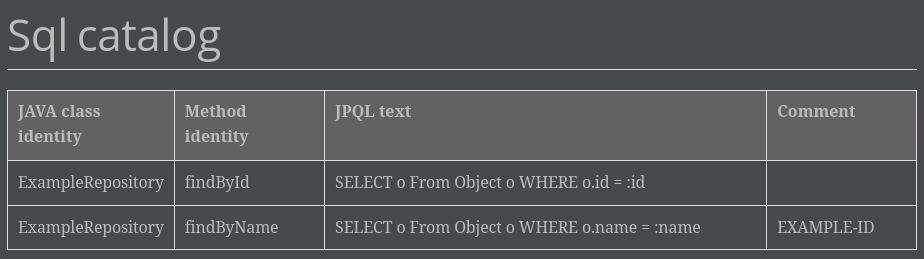
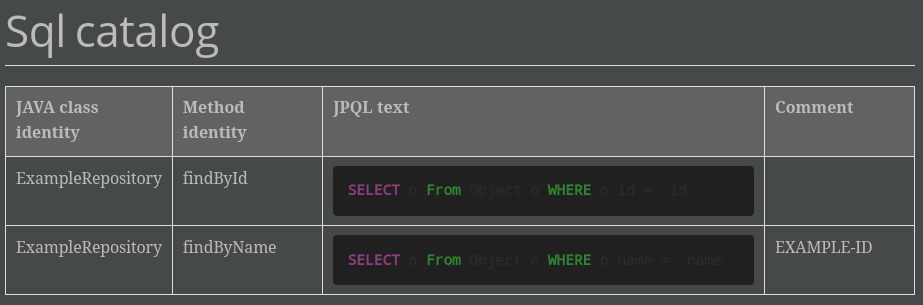
#775 jpql format in generated sql catalog

diff --git a/coffee-module/coffee-module-docgen/coffee-module-docgen-sqlcatalog/src/main/java/hu/icellmobilsoft/coffee/module/docgen/sqlcatalog/SqlCatalogAsciiDocWriter.java b/coffee-module/coffee-module-docgen/coffee-module-docgen-sqlcatalog/src/main/java/hu/icellmobilsoft/coffee/module/docgen/sqlcatalog/SqlCatalogAsciiDocWriter.java
@@ -59,7 +59,7 @@ public class SqlCatalogAsciiDocWriter implements IDocWriter<SqlCatalogData> {
     }
 
     private List<Column> getColumns() {
-        return Arrays.stream(SqlCatalogColumn.values()).map(col -> new Column(this.getHeaderName(col), this.getColumnWidth(col))).toList();
+        return Arrays.stream(SqlCatalogColumn.values()).map(col -> new Column(this.getHeaderName(col), this.getColumnStyle(col))).toList();
     }
 
     private String getHeaderName(SqlCatalogColumn sqlCatalogColumn) {
@@ -71,12 +71,12 @@ public class SqlCatalogAsciiDocWriter implements IDocWriter<SqlCatalogData> {
         };
     }
 
-    private int getColumnWidth(SqlCatalogColumn column) {
+    private String getColumnStyle(SqlCatalogColumn column) {
         return switch (column) {
-            case CLASS_NAME -> 1;
-            case METHOD_NAME -> 1;
-            case JPQL -> 3;
-            case COMMENT -> 1;
+            case CLASS_NAME -> "1";
+            case METHOD_NAME -> "1";
+            case JPQL -> "3a";
+            case COMMENT -> "1";
         };
     }
 
@@ -88,7 +88,7 @@ public class SqlCatalogAsciiDocWriter implements IDocWriter<SqlCatalogData> {
         return switch (sqlCatalogColumn) {
             case CLASS_NAME -> data.className();
             case METHOD_NAME -> data.methodName();
-            case JPQL -> data.jpql();
+            case JPQL -> "\n[source,sql]\n----\n" + data.jpql() + "\n----\n";
             case COMMENT -> data.comment();
         };
     }

diff --git a/coffee-module/coffee-module-docgen/coffee-module-docgen-config/src/main/java/hu/icellmobilsoft/coffee/module/docgen/config/writer/impl/ConfigDocAsciiDocWriter.java b/coffee-module/coffee-module-docgen/coffee-module-docgen-config/src/main/java/hu/icellmobilsoft/coffee/module/docgen/config/writer/impl/ConfigDocAsciiDocWriter.java
@@ -121,7 +121,7 @@ public class ConfigDocAsciiDocWriter implements IDocWriter<DocData> {
     }
 
     private List<Column> getColumns() {
-        return Arrays.stream(config.getColumns()).map(col -> new Column(getColumnDisplayName(col), getColumnWidth(col))).toList();
+        return Arrays.stream(config.getColumns()).map(col -> new Column(getColumnDisplayName(col), getColumnStyle(col))).toList();
     }
 
     private List<String> getLineValues(DocData docData) {
@@ -166,17 +166,17 @@ public class ConfigDocAsciiDocWriter implements IDocWriter<DocData> {
         }
     }
 
-    private int getColumnWidth(ConfigDocColumn column) {
+    private String getColumnStyle(ConfigDocColumn column) {
         switch (column) {
         case KEY:
         case SOURCE:
         case DEFAULT_VALUE:
         case SINCE:
-            return 1;
+            return "1";
         case DESCRIPTION:
-            return 3;
+            return "3";
         case FEATURES:
-            return 1;
+            return "1";
         default:
             throw newInvalidColumnException(column);
         }

diff --git a/coffee-module/coffee-module-docgen/coffee-module-docgen-common/src/main/java/hu/icellmobilsoft/coffee/module/docgen/common/data/Column.java b/coffee-module/coffee-module-docgen/coffee-module-docgen-common/src/main/java/hu/icellmobilsoft/coffee/module/docgen/common/data/Column.java
@@ -24,11 +24,11 @@ package hu.icellmobilsoft.coffee.module.docgen.common.data;
  * 
  * @param headerName
  *            header name of the column
- * @param width
- *            width of the column
+ * @param style
+ *            style of the column
  * 
  * @author janos.boroczki
  * @since 2.12.0
  */
-public record Column(String headerName, int width) {
+public record Column(String headerName, String style) {
 }

diff --git a/coffee-module/coffee-module-docgen/coffee-module-docgen-common/src/main/java/hu/icellmobilsoft/coffee/module/docgen/common/writer/AsciiDocWriter.java b/coffee-module/coffee-module-docgen/coffee-module-docgen-common/src/main/java/hu/icellmobilsoft/coffee/module/docgen/common/writer/AsciiDocWriter.java
@@ -97,7 +97,7 @@ public class AsciiDocWriter {
             if (i > 0) {
                 writer.write(',');
             }
-            writer.write(String.valueOf(columns.get(i).width()));
+            writer.write(columns.get(i).style());
         }
         writer.write("\",options=header,stripes=even]\n|===\n");
 
